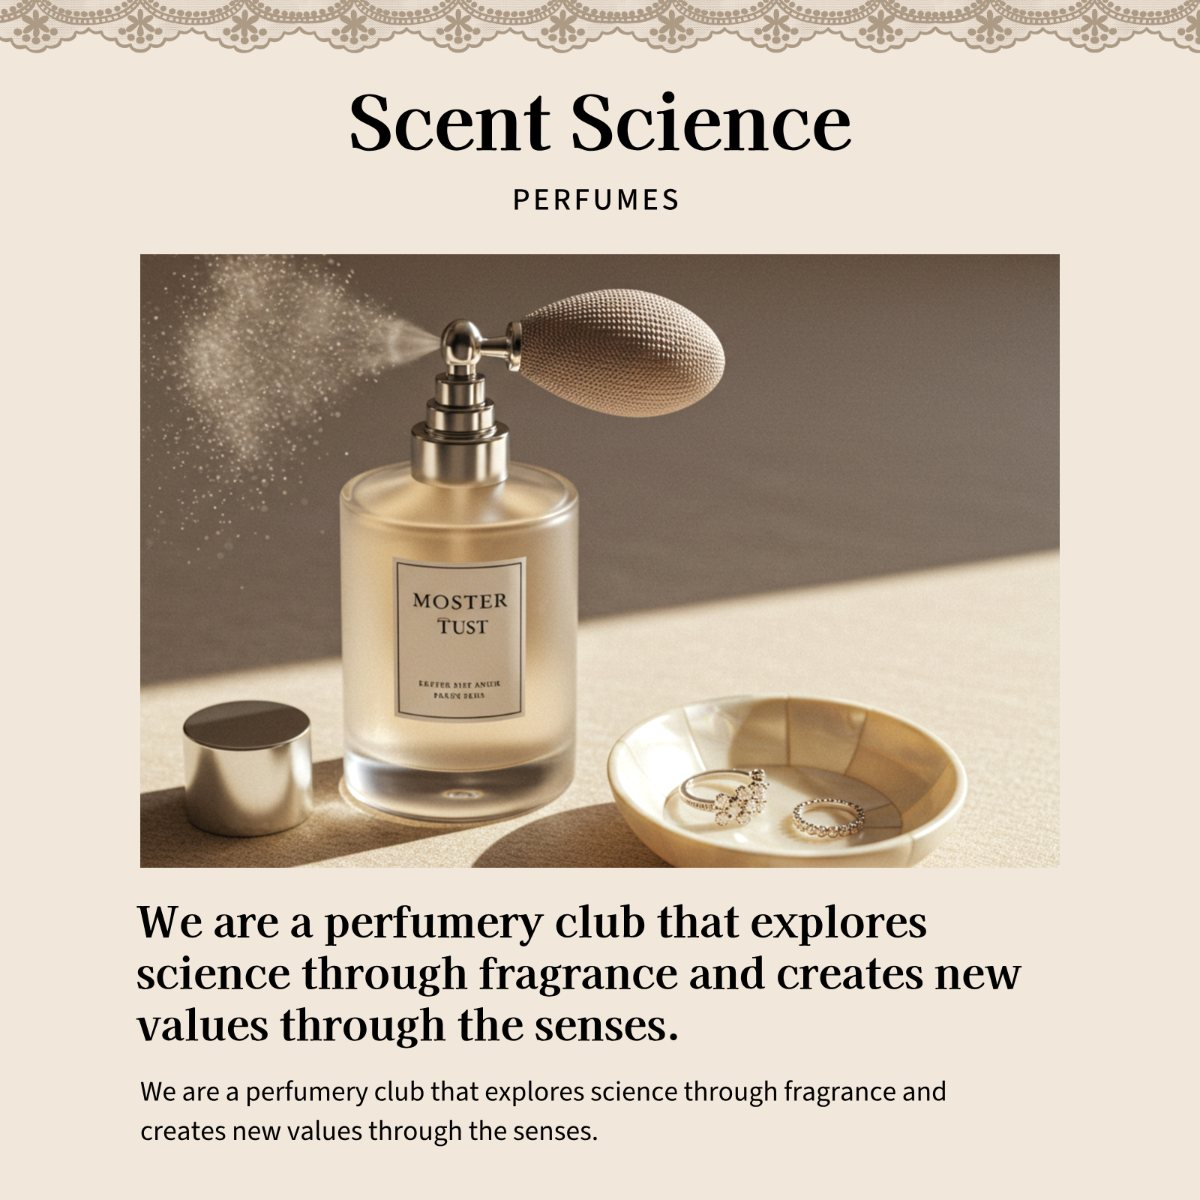
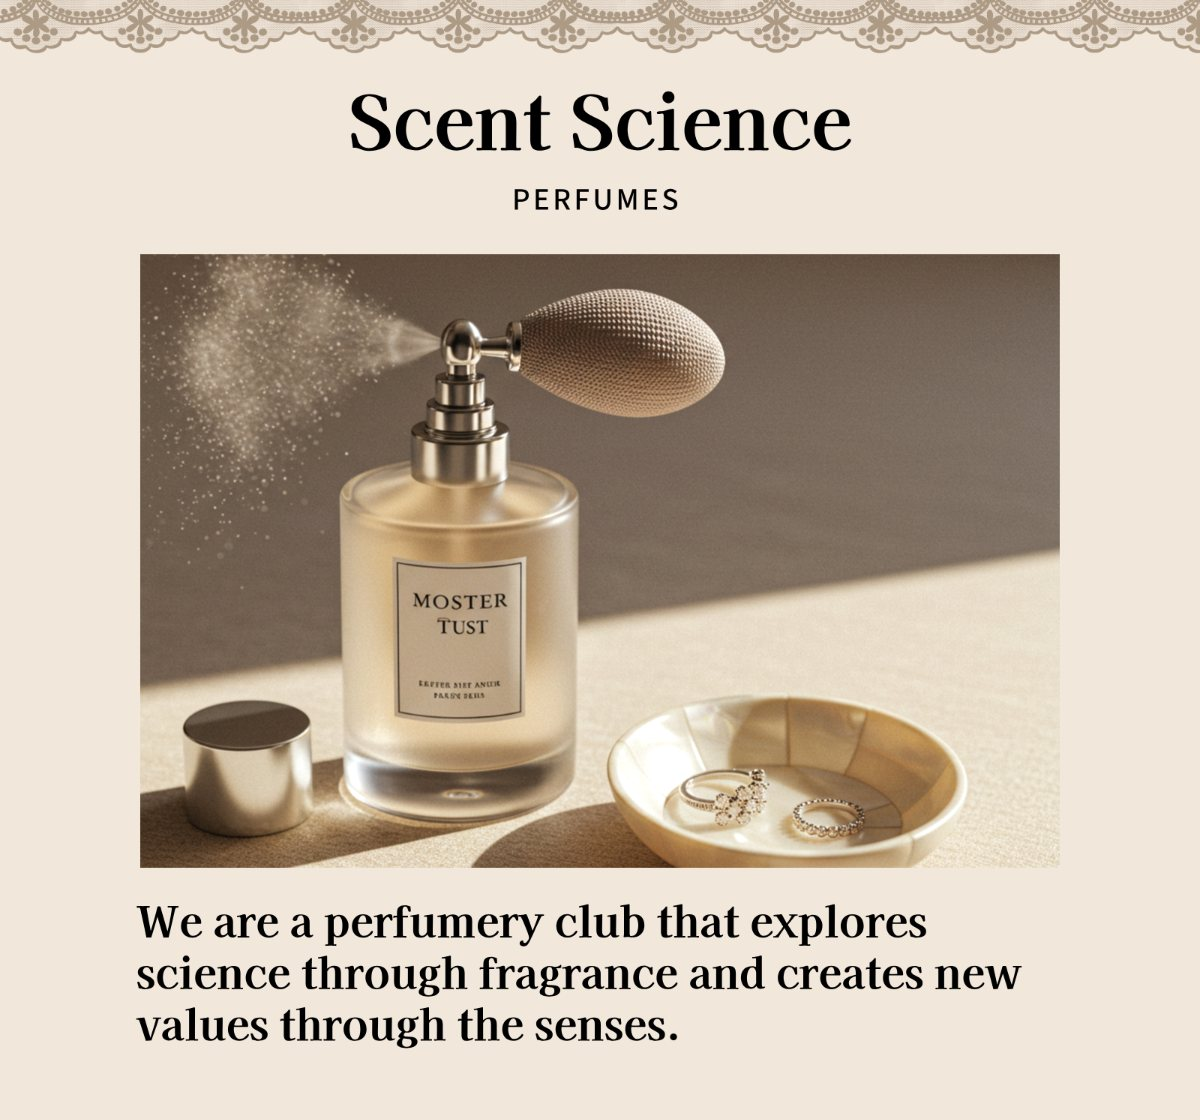
포스터 중복 영어 문구 삭제, 안내 호칭을 언니·누나로 변경

Changed region(s): [[0.0, 0.0, 1.0, 0.9688]]

diff --git a/kids.html b/kids.html
@@ -529,7 +529,7 @@ function showResult(score,rank,sum){
   const pickup = mode==='make'
     ? `<div class="pickup">
         <div class="no">🧪</div>
-        <div><b>나만의 향수를 직접 만들어요!</b><small>이 화면을 언니·오빠들에게 보여 주고 레시피대로 섞어 봐</small></div>
+        <div><b>나만의 향수를 직접 만들어요!</b><small>이 화면을 언니·누나들에게 보여 주고 레시피대로 섞어 봐</small></div>
       </div>
       <div class="card recipe" style="animation-delay:1s"><h3>📝 뿌뿌의 비밀 레시피</h3>
         <div class="step"><span class="num" style="background:${main.color}">${main.no}</span>
@@ -540,7 +540,7 @@ function showResult(score,rank,sum){
       </div>`
     : `<div class="pickup">
         <div class="no">${main.no}</div>
-        <div><b>${main.no}번 ${main.name} 향수를 받아 가요! 🎁</b><small>이 화면을 언니·오빠들에게 보여 줘</small></div>
+        <div><b>${main.no}번 ${main.name} 향수를 받아 가요! 🎁</b><small>이 화면을 언니·누나들에게 보여 줘</small></div>
       </div>`;
   const el=$('result');
   el.style.setProperty('--tone',main.color); el.style.setProperty('--soft',main.soft);
@@ -665,7 +665,7 @@ function sciResult(){
            <div class="title">“${SCI_PASS}개 이상 맞히면 간식을 받을 수 있어!”</div>`}
     </div>
     ${pass
-      ? `<div class="pickup"><div class="no">🎁</div><div><b>간식을 받아 가요!</b><small>이 화면을 언니·오빠들에게 보여 줘</small></div></div>`
+      ? `<div class="pickup"><div class="no">🎁</div><div><b>간식을 받아 가요!</b><small>이 화면을 언니·누나들에게 보여 줘</small></div></div>`
       : `<div class="pickup"><div class="no">💪</div><div><b>다시 도전해 볼까?</b><small>문제가 새로 바뀌어!</small></div></div>`}
     <div class="card"><h3>💡 오늘 배운 향기 과학</h3><p>냄새가 멀리 퍼지는 건 <b>확산</b>, 향수가 날아가는 건 <b>증발</b>, 냄새를 맡는 건 <b>코 속 세포</b> 덕분이야!</p></div>
     <div class="actions">${pass?'':'<button class="btn sci" id="sciRetry">다시 도전 🔄</button>'}<button class="btn" id="sciHome2">처음으로 🏠</button></div>`;

diff --git a/index.html b/index.html
@@ -57,7 +57,7 @@
 <body>
 <div class="wrap">
   <div class="cap">2026 봉화 교육 한마당 · 2026. 11. 4.</div>
-  <img class="poster" src="img/scent-science.jpg" width="1200" height="1200" alt="Scent Science 향수 동아리 포스터 — 향기로 과학을 탐구하고 감각으로 새로운 가치를 만드는 향수 동아리">
+  <img class="poster" src="img/scent-science.jpg" width="1200" height="1120" alt="Scent Science 향수 동아리 포스터 — 향기로 과학을 탐구하고 감각으로 새로운 가치를 만드는 향수 동아리">
   <h1>Find your<br><em>own scent.</em></h1>
   <h2>퍼스널 향찾기</h2>
   <p class="lead">설문으로 나에게 어울리는 향과 분위기를 찾고,<br>향 과학 퀴즈에 도전해 간식도 받아가세요!</p>
